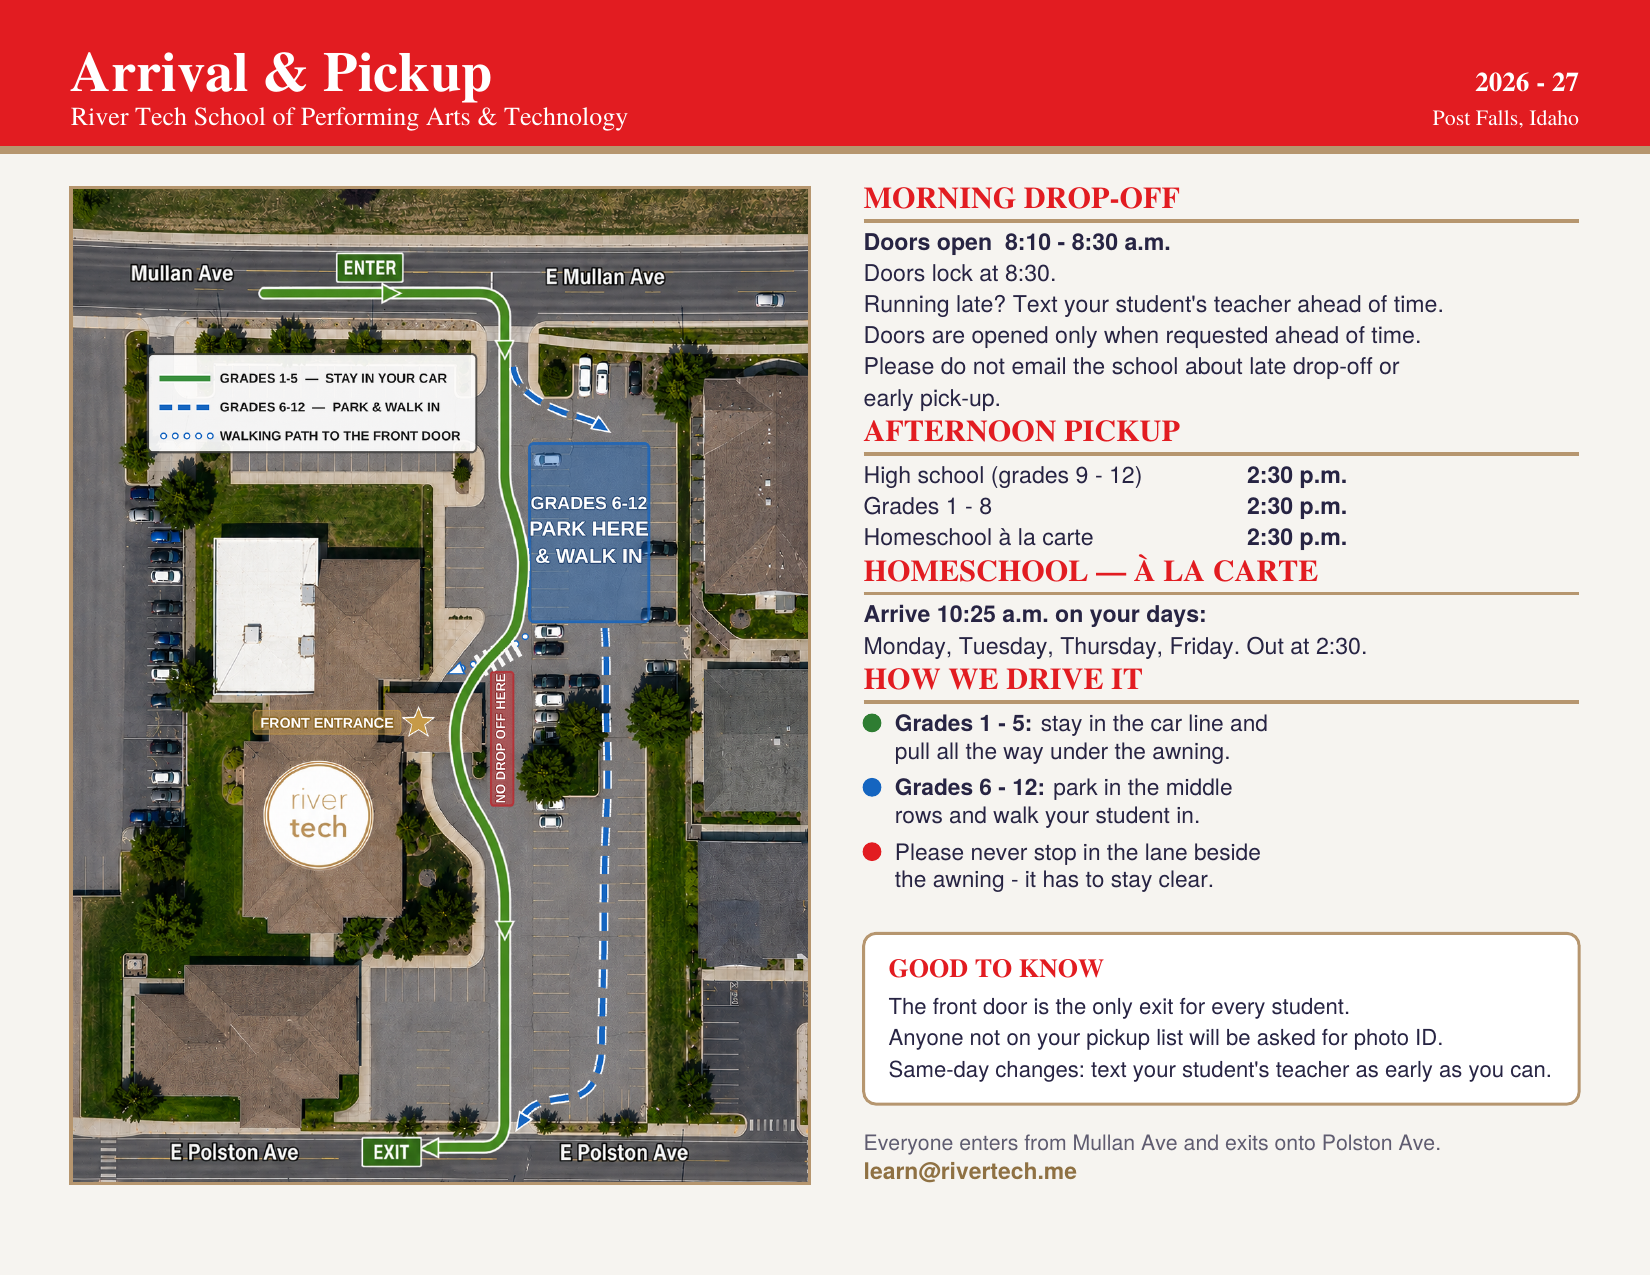
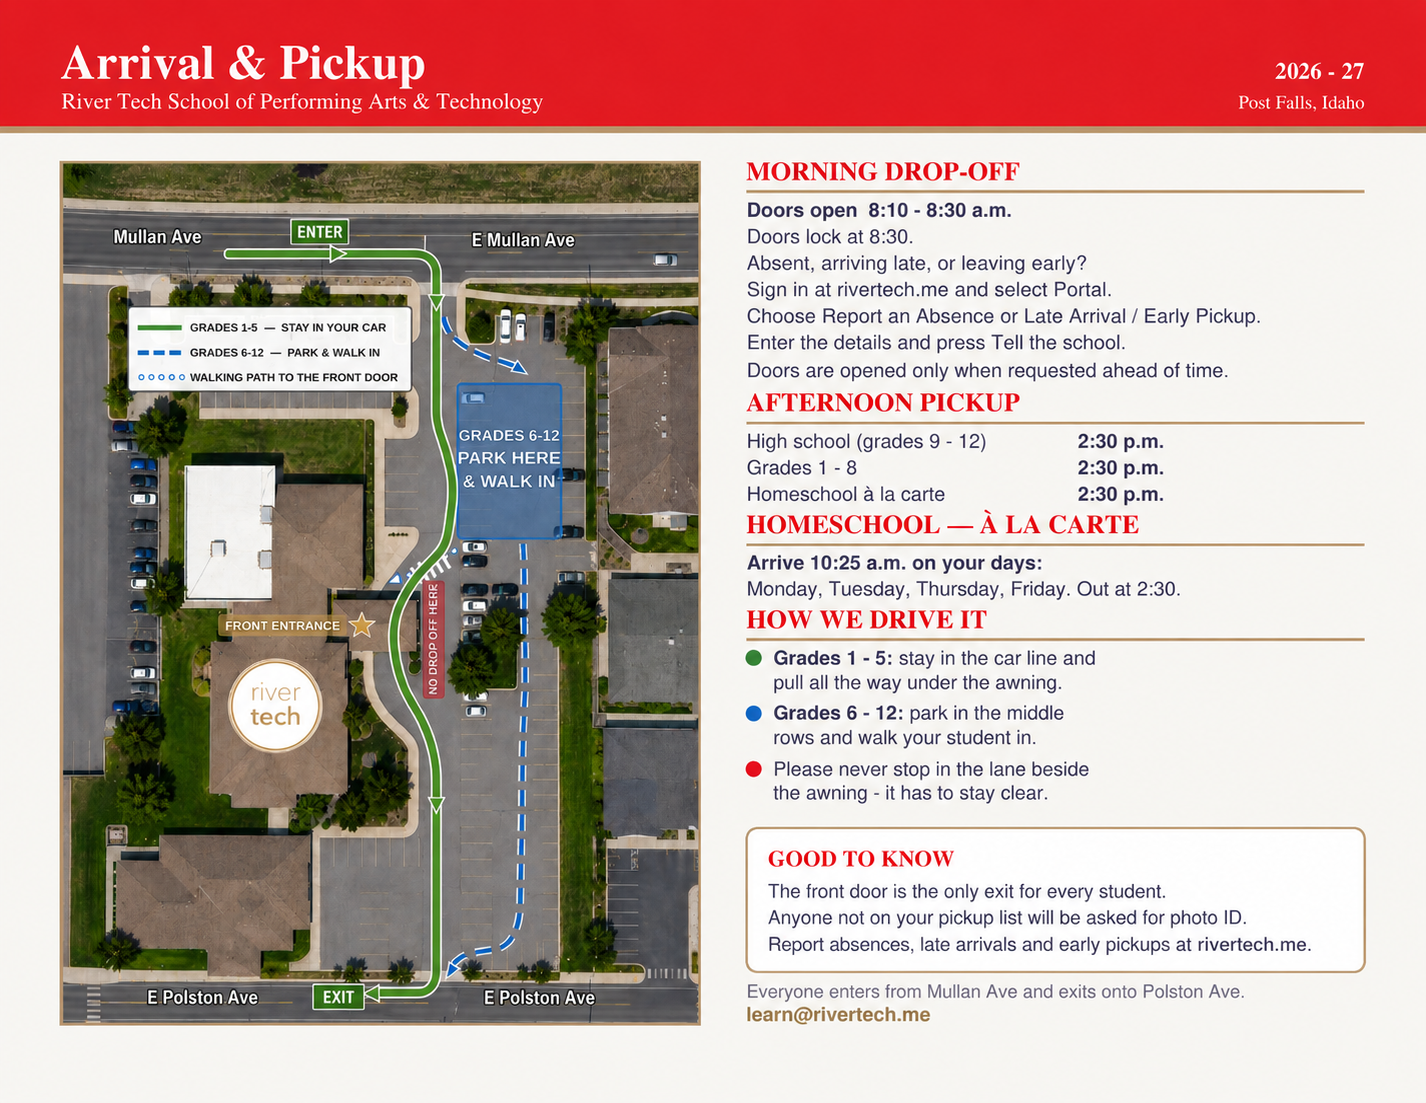
Replace attendance contact instructions with simple parent portal steps

diff --git a/pages/family-hub.html b/pages/family-hub.html
@@ -237,12 +237,12 @@
 </details></div>
 </details></section></section><section class="hub-panel" data-hub-panel="daily" id="daily"><div class="hub-section-heading"><p class="eyebrow">EVERYDAY ESSENTIALS</p><h2>A good school day.</h2></div><p><a class="cta-btn" href="/pages/dismissal.html">Pickup &amp; dismissal choices →</a></p><details id="arrival"><summary>Arrival, pickup &amp; parking</summary><div class="ap-page">
 <p class="schedule-date"><strong>2026&ndash;27 &middot; Quarter 1</strong> &middot; Updated September 17, 2026 &middot; The Heart Church, Post Falls</p>
-<a href="/assets/images/arrival-pickup-2026-27.png?v=157c2c7744f9" rel="noopener" target="_blank">
-<img alt="Aerial map of the River Tech lot. Cars enter from Mullan Ave and exit onto Polston Ave. A green route marks the grades 1 to 5 car line, which pulls all the way under the awning by the front entrance. A blue dashed route marks grades 6 to 12, who park in the middle rows and walk their student to the front door. The lane beside the awning is marked no drop off." class="ap-sheet" height="1275" loading="lazy" src="/assets/images/arrival-pickup-2026-27.png?v=157c2c7744f9" width="1650"/>
+<a href="/assets/images/arrival-pickup-2026-27.png?v=20261022-portal" rel="noopener" target="_blank">
+<img alt="Aerial map of the River Tech lot. Cars enter from Mullan Ave and exit onto Polston Ave. A green route marks the grades 1 to 5 car line, which pulls all the way under the awning by the front entrance. A blue dashed route marks grades 6 to 12, who park in the middle rows and walk their student to the front door. The lane beside the awning is marked no drop off." class="ap-sheet" height="1275" loading="lazy" src="/assets/images/arrival-pickup-2026-27.png?v=20261022-portal" width="1650"/>
 </a>
 <p class="ap-sheet-note">Tap the map to open it full size.</p>
 <div class="ap-actions">
-<a class="cta-btn" download="" href="/assets/images/arrival-pickup-2026-27.png?v=157c2c7744f9">
+<a class="cta-btn" download="" href="/assets/images/arrival-pickup-2026-27.png?v=20261022-portal">
 <svg aria-hidden="true" fill="none" height="15" stroke="currentColor" stroke-linecap="round" stroke-linejoin="round" stroke-width="2.2" viewbox="0 0 24 24" width="15"><path d="M21 15v4a2 2 0 0 1-2 2H5a2 2 0 0 1-2-2v-4"></path><polyline points="7 10 12 15 17 10"></polyline><line x1="12" x2="12" y1="15" y2="3"></line></svg>Download the one-page guide</a>
 </div>
 <div class="ap-cards">
@@ -250,9 +250,9 @@
 <h2>Morning drop-off</h2>
 <p><strong>Doors open 8:10–8:30 a.m.</strong> Doors lock at 8:30.</p>
 <ul>
-<li>Running late? Text your student’s teacher ahead of time.</li>
+<li>Running late? <a href="#contact/attendance">Tell us through the Parent Portal</a>.</li>
 <li>Doors are opened only when requested ahead of time.</li>
-<li>Please don’t email the school about late drop-off or early pick-up ;  a text to the teacher is what reaches someone in time.</li>
+
 </ul>
 </div>
 <div class="ap-card">
@@ -281,7 +281,7 @@
 <ul>
 <li>The front door is the only exit for every student.</li>
 <li>Anyone not on your pickup list will be asked for photo ID.</li>
-<li>Same-day changes: text your student’s teacher as early as you can.</li>
+<li>Absent, arriving late, or leaving early? <a href="#contact/attendance">Follow these simple portal steps</a>.</li>
 </ul>
 </div>
 <p class="ap-route">Everyone enters from Mullan Ave and exits onto Polston Ave.</p>
@@ -501,7 +501,7 @@
 <div class="accordion-body-inner">
 <p>River Tech is at full capacity and is not accepting scholarship applications. <a href="/pages/join-wait-pool.html">Join our free wait pool</a> and indicate whether your child would need a River Tech scholarship to attend.</p>
 </div>
-</div></details></section></section><section class="hub-panel" data-hub-panel="contact" id="contact"><div class="hub-section-heading"><p class="eyebrow">PEOPLE &amp; COMMUNITY</p><h2>Stay connected.</h2></div><article><h3>Need us today?</h3><p>For late arrival, early pickup, or same-day changes, <strong>text your student’s teacher</strong>. Please don’t email the school for these time-sensitive arrangements.</p><p>Other questions: <a href="mailto:learn@rivertech.me">learn@rivertech.me</a> · <a href="tel:4254442081">425-444-2081</a></p><p>Add our email to your contacts. Reply to a school email if someone needs to be added to or removed from the mailing list.</p><p>Find day-to-day updates, reminders, and photos in the <a href="https://www.facebook.com/groups/1019181042165588">parents’ Facebook group</a>. Essential information is also sent by email.</p></article><div class="card-grid"><a class="route-card" href="/pages/family-fair.html"><span class="eyebrow">Community</span><h3>Family Fair</h3><p>Meet the families and discover their gifts.</p><span aria-hidden="true" class="card-arrow">↗</span></a><a class="route-card" href="/pages/volunteer.html"><span class="eyebrow">Get involved</span><h3>Volunteer</h3><p>Share your experience and support school life.</p><span aria-hidden="true" class="card-arrow">↗</span></a><a class="route-card" href="mailto:learn@rivertech.me?subject=Tutoring%20Inquiry"><span class="eyebrow">Learning support</span><h3>Ask about tutoring</h3><p>Contact the school about tutoring.</p><span aria-hidden="true" class="card-arrow">↗</span></a><a class="route-card" href="/pages/hs-super1-waiver.html"><span class="eyebrow">Permission form</span><h3>High-school lunch waiver</h3><p>Off-campus lunch permission for eligible students.</p><span aria-hidden="true" class="card-arrow">↗</span></a></div><details class="hub-faq-answer" id="faq-1"><summary>Where is River Tech School located?</summary><div>
+</div></details></section></section><section class="hub-panel" data-hub-panel="contact" id="contact"><div class="hub-section-heading"><p class="eyebrow">PEOPLE &amp; COMMUNITY</p><h2>Stay connected.</h2></div><article><section id="attendance"><h3>Will your child be absent, arrive late, or leave early?</h3><p>Let us know at <a href="https://rivertech.me">rivertech.me</a>:</p><ol><li>Sign in and select <strong>Portal</strong>.</li><li>Choose <strong>Report an Absence</strong> or <strong>Late Arrival / Early Pickup</strong>.</li><li>Enter the details and press <strong>Tell the school</strong>.</li></ol><h4>Using it for the first time?</h4><p>Click <strong>Create a Parent Account</strong> and enter your own name and email. Open the confirmation email and click its link.</p><p>Then click <strong>Link a Child</strong>, enter your child’s full name, and send the request. We’ll email you when your child has been added.</p><p><strong>Need help?</strong> Email <a href="mailto:learn@rivertech.me">learn@rivertech.me</a> and we’ll help you get started.</p></section><p>Other questions: <a href="mailto:learn@rivertech.me">learn@rivertech.me</a> · <a href="tel:4254442081">425-444-2081</a></p><p>Add our email to your contacts. Reply to a school email if someone needs to be added to or removed from the mailing list.</p><p>Find day-to-day updates, reminders, and photos in the <a href="https://www.facebook.com/groups/1019181042165588">parents’ Facebook group</a>. Essential information is also sent by email.</p></article><div class="card-grid"><a class="route-card" href="/pages/family-fair.html"><span class="eyebrow">Community</span><h3>Family Fair</h3><p>Meet the families and discover their gifts.</p><span aria-hidden="true" class="card-arrow">↗</span></a><a class="route-card" href="/pages/volunteer.html"><span class="eyebrow">Get involved</span><h3>Volunteer</h3><p>Share your experience and support school life.</p><span aria-hidden="true" class="card-arrow">↗</span></a><a class="route-card" href="mailto:learn@rivertech.me?subject=Tutoring%20Inquiry"><span class="eyebrow">Learning support</span><h3>Ask about tutoring</h3><p>Contact the school about tutoring.</p><span aria-hidden="true" class="card-arrow">↗</span></a><a class="route-card" href="/pages/hs-super1-waiver.html"><span class="eyebrow">Permission form</span><h3>High-school lunch waiver</h3><p>Off-campus lunch permission for eligible students.</p><span aria-hidden="true" class="card-arrow">↗</span></a></div><details class="hub-faq-answer" id="faq-1"><summary>Where is River Tech School located?</summary><div>
 <div class="accordion-body-inner">
 <p>River Tech is located at 927 E Polston Ave, Post Falls, Idaho 83854, inside The Heart. We serve families across Post Falls, Coeur d’Alene, Hayden, Rathdrum, Spokane, Spokane Valley, and Liberty Lake.</p>
 </div>
@@ -1128,4 +1128,4 @@ document.addEventListener('DOMContentLoaded', function() {
     panels[0].style.display = 'block';
   }
 });
-</script><script defer="" src="/design/hub-consolidated.js?v=6e754c540a"></script><script defer src="/design/hub-help.js?v=20261022"></script></body></html>
+</script><script defer="" src="/design/hub-consolidated.js?v=6e754c540a"></script><script defer src="/design/hub-help.js?v=20261022-portal"></script></body></html>

diff --git a/design/hub-help.js b/design/hub-help.js
@@ -49,7 +49,7 @@ function ownerFor(group,q){if(group===categories[3]||group===categories[4])retur
 const entries=sourceLinks.map((a,i)=>{const href=a.getAttribute('href'),q=a.querySelector('strong').textContent,group=groupFor(href,q);return {id:'hub-'+i,q,group,href,owner:ownerFor(group,q),search:a.dataset.search};});
 // These are personal requests rather than general policy answers.
 const personal=[
- ['How do I report an absence or arrange an early pickup?',categories[1],'teacher','For an attendance update or time-sensitive pickup, follow the current instructions in Contact & forms.','#contact','late absent sick attendance pickup door'],
+ ['How do I report an absence or arrange an early pickup?',categories[1],'teacher','Sign in at rivertech.me and select Portal. Choose Report an Absence or Late Arrival / Early Pickup. Enter the details and press Tell the school.','#contact/attendance','late absent sick attendance pickup door'],
  ['How can I discuss my child’s progress or classwork?',categories[1],'teacher','Start with the teacher for the class or subject. Include your child’s name and what you would like to discuss.','/pages/teachers.html','homework grade assessment lesson teacher struggling'],
  ['Who can help with a student or friendship concern?',categories[1],'mary','Contact Mary about student wellbeing, friendship difficulties or a family concern. If something is happening at school right now, tell a staff member on site.','#contact','bullying behavior conflict wellbeing health support'],
  ['Who can help with apps, accounts or setup?',categories[2],'luke','For a device, app or account problem, contact Luke. For help with the work assigned in a class, contact that class’s teacher.','#daily/devices','login password software programs install computer laptop'],
@@ -75,6 +75,7 @@ const detail=el('article','hub-find-detail');detail.setAttribute('aria-live','po
 function normalize(s){return s.toLowerCase().normalize('NFKD').replace(/[’']/g,'').replace(/[^a-z0-9]+/g,' ').trim();}
 function answerBody(entry){
  const container=el('div','hub-find-copy');
+ if(entry.id==='request-0'){const source=document.getElementById('attendance');[...source.children].slice(1).forEach(n=>container.append(n.cloneNode(true)));return container;}
  if(entry.answer){container.append(el('p','',entry.answer));return container;}
  if(/pay tuition by check/i.test(entry.q)){const h=[...root.querySelectorAll('#payments summary')].find(n=>/paying by check/i.test(n.textContent));if(h?.nextElementSibling){container.append(h.nextElementSibling.cloneNode(true));return container;}}
  const parts=entry.href.slice(1).split('/'),target=document.getElementById(parts[parts.length-1]);
@@ -90,7 +91,7 @@ function answerBody(entry){
 function show(entry){detail.replaceChildren();if(!entry){detail.append(el('h3','','Can’t find your question?'),el('p','','Try a simpler word, choose another category, or ask Brooke to connect you with the right person.'),helpBlock('answer',[['Help finding the right person','brooke']]));return;}
  const title=el('h3','hub-find-title',entry.q);detail.append(el('p','eyebrow',entry.group),title,answerBody(entry));
  const link=el('a','hub-find-source','Open the full Hub section →');link.href=entry.href;detail.append(link);
- if(entry.id==='request-0'){const box=el('aside','hub-help');box.append(el('h3','','Need someone today?'));const a=el('a','hub-help-email','View same-day contact instructions');a.href='#contact';box.append(a);detail.append(box);return;}
+ if(entry.id==='request-0'){const a=el('a','hub-help-email','Open the Parent Portal');a.href='https://rivertech.me';detail.append(a);return;}
  const choices=[[entry.q,entry.owner]];if(entry.second)choices.push(['Production props',entry.second]);const help=helpBlock('answer',choices);if(!entry.second)help.querySelector('.hub-help-description')?.remove();detail.append(help);
 }
 function render(){const words=normalize(input.value).split(' ').filter(Boolean);const matches=entries.filter(e=>(category===categories[0]||e.group===category)&&words.every(w=>normalize(e.q+' '+e.search).includes(w)));
@@ -106,9 +107,9 @@ const tabQuestions={
  home: ['Where can I find the class schedule?','Where are field-trip details?','Where are casts, scripts, and practice recordings?'],
  shows: ['Where are casts, scripts, and practice recordings?','Who can help with an Aladdin rehearsal question?','How can I help with costumes or props?'],
  calendar: ['Where can I find the class schedule?','Where are field-trip details?','How do I request a change to days, classes or enrollment?'],
- daily: ['What is the dress code?','What devices should students bring?','What supplies do students need?','How can I discuss my child’s progress or classwork?','Who can help with apps, accounts or setup?'],
+ daily: ['How do I report an absence or arrange an early pickup?','What is the dress code?','What devices should students bring?','What supplies do students need?','How can I discuss my child’s progress or classwork?','Who can help with apps, accounts or setup?'],
  billing: ['How much does River Tech cost?','Can I pay tuition by check?','Are there enrollment fees or sibling discounts?','I have a question about my invoice, payment or refund.'],
- contact: ['How do I update records or pickup permissions?','How do I request a change to days, classes or enrollment?','How can I volunteer at River Tech?','How does the wait pool work?']
+ contact: ['How do I report an absence or arrange an early pickup?','How do I update records or pickup permissions?','How do I request a change to days, classes or enrollment?','How can I volunteer at River Tech?','How does the wait pool work?']
 };
 Object.entries(tabQuestions).forEach(([id,questions])=>{
  const faq=el('section','hub-tab-faq');faq.id='questions-'+id;
